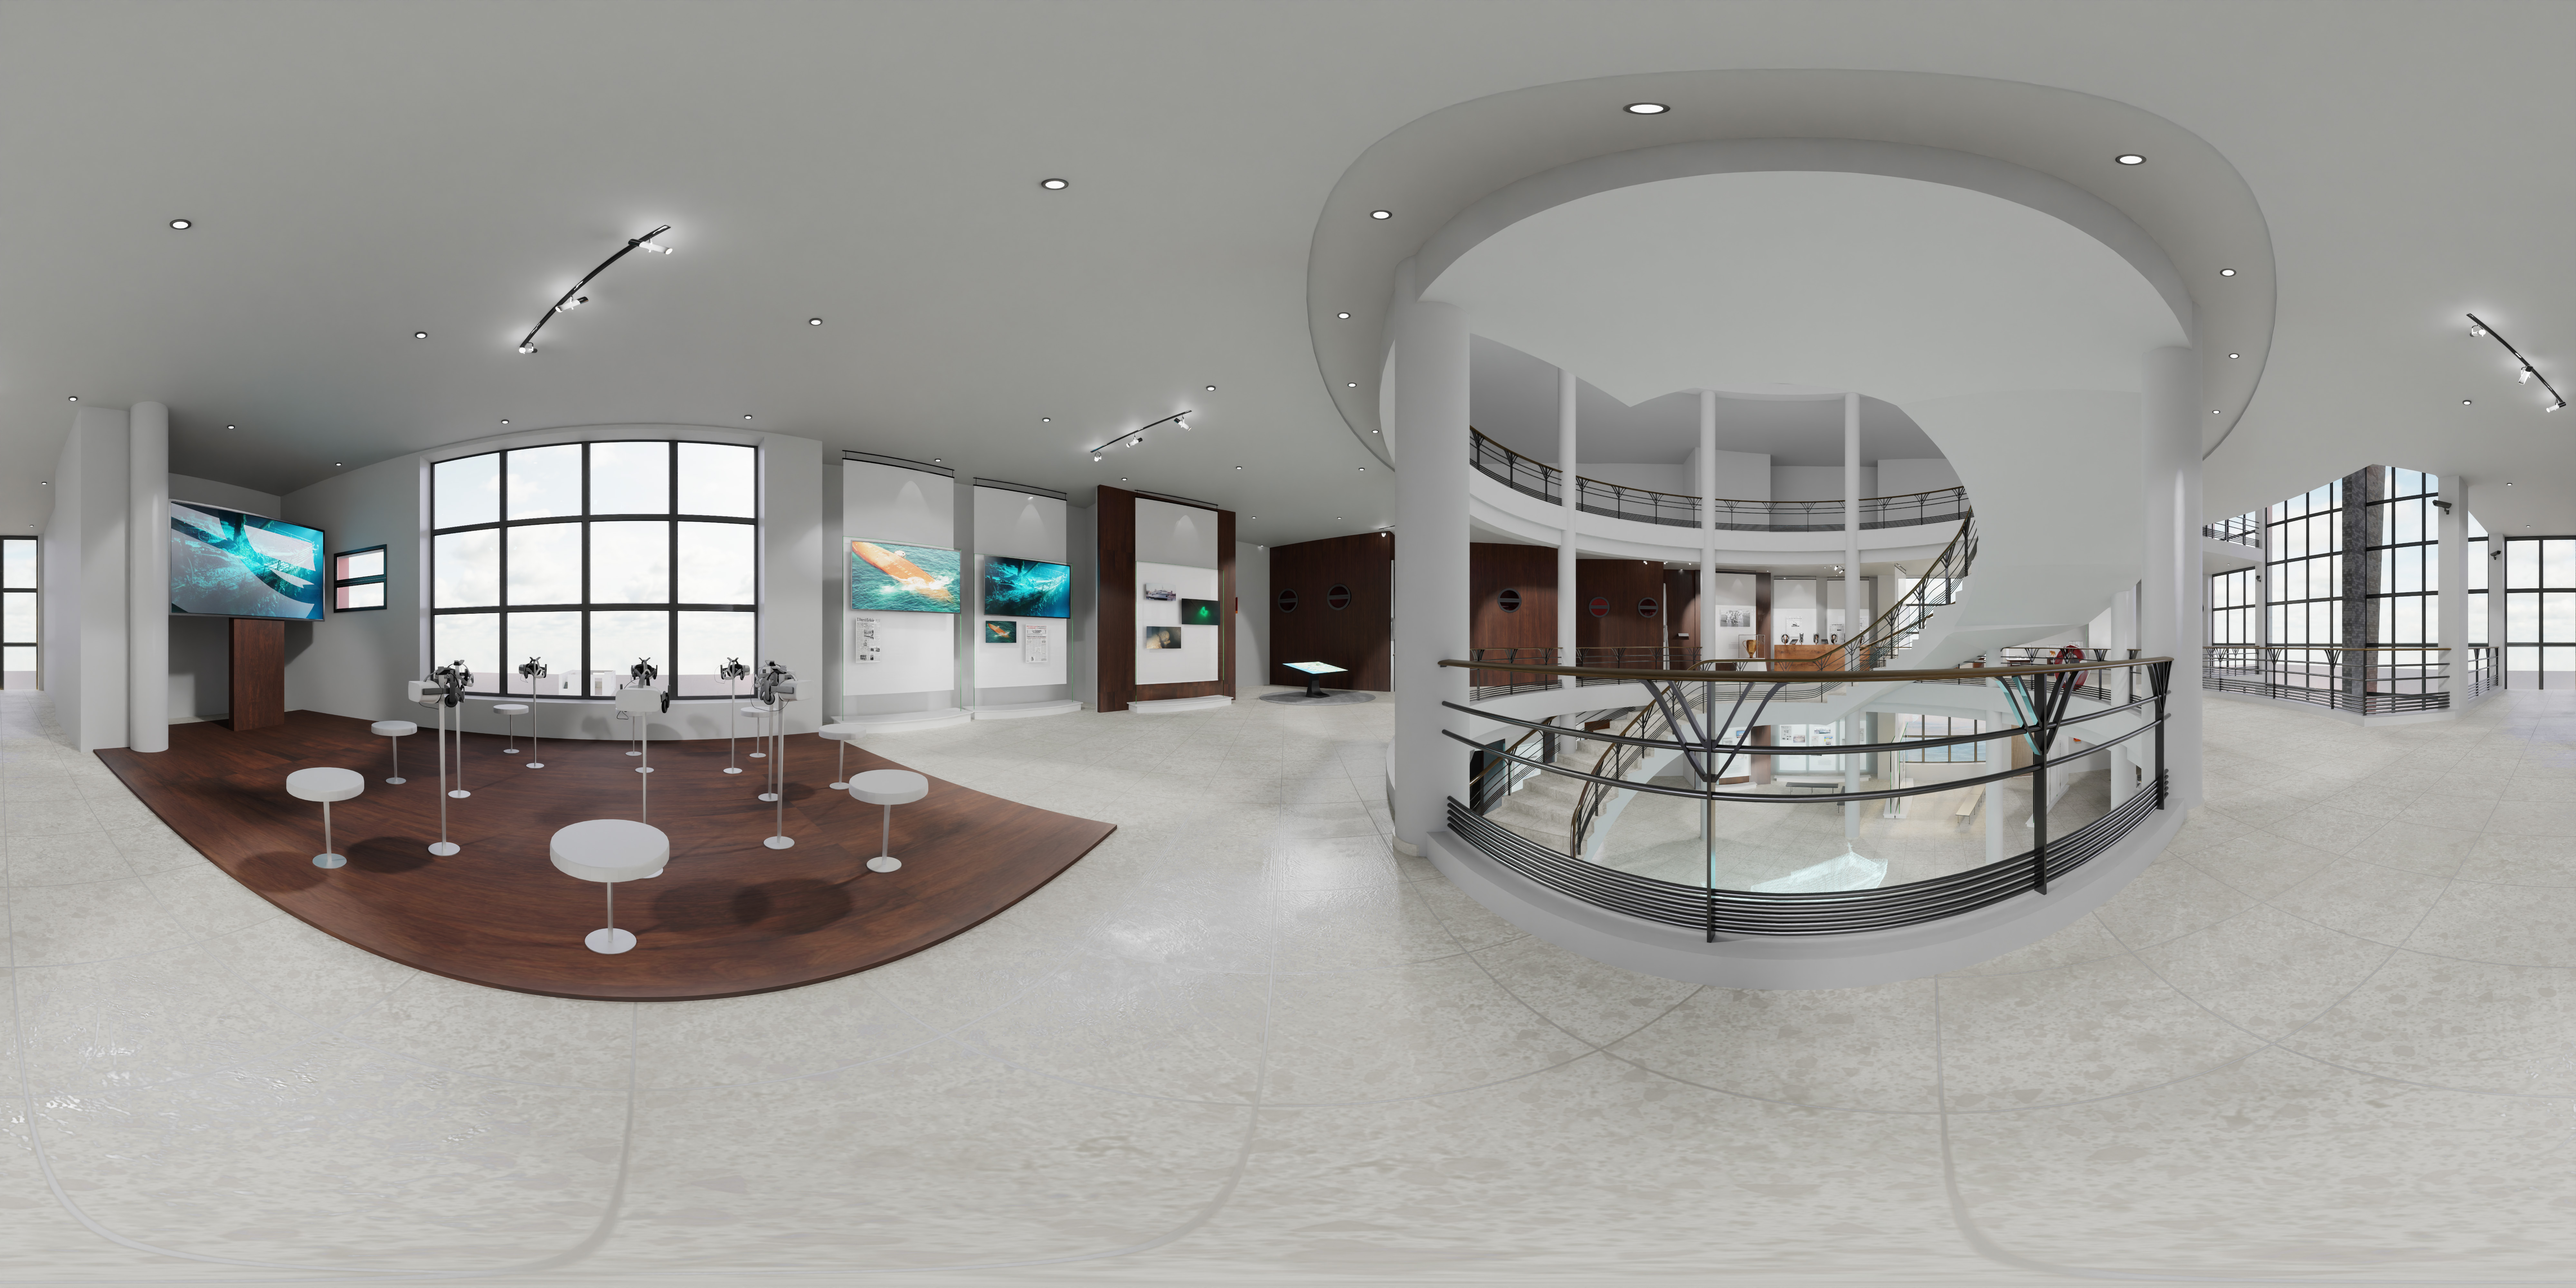
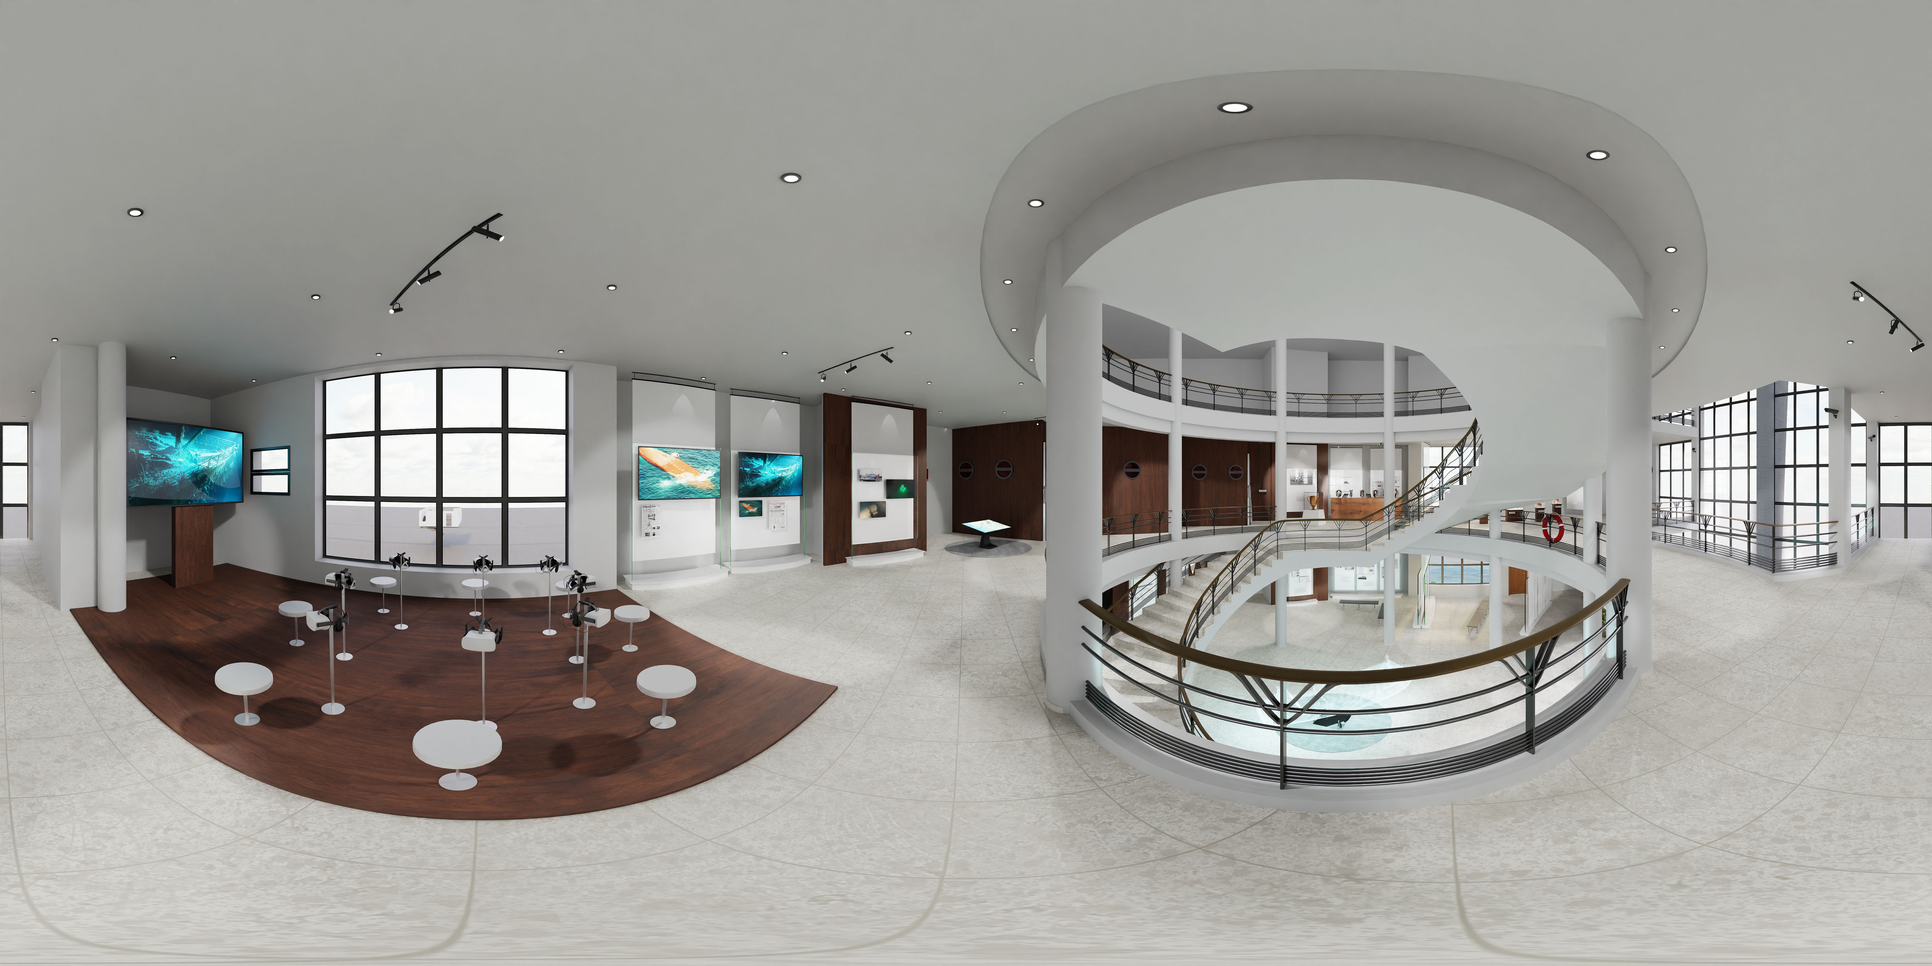
first commit-8

diff --git a/index.html b/index.html
@@ -70,6 +70,7 @@
             <img id="Scene-22" src="./Style/Images/Scene-22.jpg">
             <img id="Scene-23" src="./Style/Images/Scene-23.jpg">
             <img id="Scene-24" src="./Style/Images/Scene-24.jpg">
+            <img id="Scene-25" src="./Style/Images/Scene-25.jpg">
         </a-assets>
 
         <a-entity laser-controls="hand: left"
@@ -92,11 +93,6 @@
                 position="-4.10698 -1.15665 -5.74791" rotation="-81.07639279998713 71.56300156963495 17.62991135617543"
                 material="src: #Arrow-1; transparent:true"
                 the_dote="Name_of_dote: Dote-1  ; Group_to_activate: Group-1 ; The_rotation: 0">
-            </a-plane>
-            <a-plane data-clickable scale='0.9 0.9 0.9' opacity='.5' class="pintings clickable"
-                position="-8.77309 -1.15665 4.0442" rotation="-57.05112653456146 94.80847227588758 -8.138292522038213"
-                material="src: #Arrow-1; transparent:true"
-                the_dote="Name_of_dote: Dote-10  ; Group_to_activate: Group-10 ; The_rotation: 0">
             </a-plane>
 
         </a-entity>
@@ -314,7 +310,7 @@
             </a-plane>
 
             <a-plane data-clickable scale='0.9 0.9 0.9' opacity='.5' class="pintings clickable"
-                position="-1.40609 -1.38102 -5.58956"
+                position="-0.81632 -0.63666 -3.91632"
                 rotation="-87.00020344384473 119.95730877756479 151.33591538569945"
                 material="src: #Arrow-1; transparent:true"
                 the_dote="Name_of_dote: Dote-14; Group_to_activate: Group-14; The_rotation: 0">
@@ -325,16 +321,21 @@
         <a-entity scale="0 0 0" rotation="0 -90 0" class="groups" id="Group-14" visible="false">
 
             <a-plane data-clickable scale='0.9 0.9 0.9' opacity='.5' class="pintings clickable"
-                position="-6.03853 -1.13547 3.73085" rotation="-68.80363682828491 123.14581890746784 150.03587414854763"
+                position="-3.70212 -1.13547 1.95713" rotation="-68.80363682828491 123.14581890746784 150.03587414854763"
                 material="src: #Arrow-1; transparent:true"
                 the_dote="Name_of_dote: Dote-15; Group_to_activate: Group-15; The_rotation: 0">
             </a-plane>
 
+
+
             <a-plane data-clickable scale='0.9 0.9 0.9' opacity='.5' class="pintings clickable"
-                position="0.15379 -0.65092 4.02329" rotation="-88.37472919436357 -157.13482123021856 68.38595059563455"
+                position="0.15379 -0.65092 2.70711" rotation="-88.37472919436357 -157.13482123021856 68.38595059563455"
                 material="src: #Arrow-1; transparent:true"
                 the_dote="Name_of_dote: Dote-13; Group_to_activate: Group-13; The_rotation: 0">
             </a-plane>
+
+
+
 
         </a-entity>
         <!-- Group-15 -->
@@ -345,8 +346,9 @@
                 material="src: #Arrow-1; transparent:true"
                 the_dote="Name_of_dote: Dote-14; Group_to_activate: Group-14; The_rotation: 0">
             </a-plane>
+
             <a-plane data-clickable scale='0.9 0.9 0.9' opacity='.5' class="pintings clickable"
-                position="-3.65896 -0.79042 4.1435" rotation="-79.06359206569256 97.91734127226742 173.48417191427657"
+                position="-2.3292 -0.79042 2.99187" rotation="-79.06359206569256 97.91734127226742 173.48417191427657"
                 material="src: #Arrow-1; transparent:true"
                 the_dote="Name_of_dote: Dote-16; Group_to_activate: Group-16; The_rotation: 0">
             </a-plane>
@@ -356,37 +358,36 @@
         <a-entity scale="0 0 0" rotation="0 -90 0" class="groups" id="Group-16" visible="false">
 
             <a-plane data-clickable scale='0.9 0.9 0.9' opacity='.5' class="pintings clickable"
-                position="4.23613 -0.71372 -4.0924" rotation="-78.8023233111129 -97.73514069341583 8.848760188000433"
+                position="2.58743 -0.71372 -2.683" rotation="-78.8023233111129 -97.73514069341583 8.848760188000433"
                 material="src: #Arrow-1; transparent:true"
                 the_dote="Name_of_dote: Dote-15; Group_to_activate: Group-15; The_rotation: 0">
             </a-plane>
 
+
+
             <a-plane data-clickable scale='0.9 0.9 0.9' opacity='.5' class="pintings clickable"
-                position="-0.59521 -0.7222 5.18695" rotation="-88.37472919436357 -157.13482123021856 68.38595059563455"
+                position="-0.22758 -0.7222 4.21434" rotation="-88.37472919436357 -157.13482123021856 68.38595059563455"
                 material="src: #Arrow-1; transparent:true"
                 the_dote="Name_of_dote: Dote-17; Group_to_activate: Group-17; The_rotation: 0">
             </a-plane>
+
 
         </a-entity>
         <!-- Group-17 -->
         <a-entity scale="0 0 0" rotation="0 -90 0" class="groups" id="Group-17" visible="false">
 
             <a-plane data-clickable scale='0.9 0.9 0.9' opacity='.5' class="pintings clickable"
-                position="0.82881 -0.961 -6.12214" rotation="-78.750184151756 -3.1718943538442375 -85.64515825836033"
+                position="0.720 -0.990 -4.527" rotation="-78.750184151756 -3.1718943538442375 -85.64515825836033"
                 material="src: #Arrow-1; transparent:true"
                 the_dote="Name_of_dote: Dote-16; Group_to_activate: Group-16; The_rotation: 0">
             </a-plane>
 
 
-
             <a-plane data-clickable scale='0.9 0.9 0.9' opacity='.5' class="pintings clickable"
-                position="1.816 -0.752 5.891" rotation="-80.05309017788349 -176.41714286755126 87.71468181437285"
+                position="1.158 -0.430 2.587" rotation="-77.44326742106259 -44.92619367400298 -45.97356052350213"
                 material="src: #Arrow-1; transparent:true"
                 the_dote="Name_of_dote: Dote-18; Group_to_activate: Group-18; The_rotation: 0">
             </a-plane>
-
-
-
 
 
         </a-entity>
@@ -394,18 +395,23 @@
         <a-entity scale="0 0 0" rotation="0 -90 0" class="groups" id="Group-18" visible="false">
 
             <a-plane data-clickable scale='0.9 0.9 0.9' opacity='.5' class="pintings clickable"
-                position="-2.62401 -1.02993 -3.73864" rotation="-88.1896638265363 -145.82578026992636 57.07232597298131"
+                position="-1.2615 -1.08898 -3.61784" rotation="-79.42398251882985 59.56526533959551 -149.76142736467997"
                 material="src: #Arrow-1; transparent:true"
                 the_dote="Name_of_dote: Dote-16; Group_to_activate: Group-16; The_rotation: 0">
             </a-plane>
 
 
 
+
+
+
             <a-plane data-clickable scale='0.9 0.9 0.9' opacity='.5' class="pintings clickable"
-                position="3.68738 -1.08898 4.98172" rotation="-79.0143176953113 -128.74991910164243 40.30299722509237"
+                position="2.78779 -1.08898 2.36988" rotation="-73.88061585093914 -70.4354206288175 -18.619982426161492"
                 material="src: #Arrow-1; transparent:true"
                 the_dote="Name_of_dote: Dote-19; Group_to_activate: Group-19; The_rotation: 0">
             </a-plane>
+
+
 
 
 
@@ -414,7 +420,7 @@
         <a-entity scale="0 0 0" rotation="0 -90 0" class="groups" id="Group-19" visible="false">
 
             <a-plane data-clickable scale='0.9 0.9 0.9' opacity='.5' class="pintings clickable"
-                position="-3.7042 -0.82927 -4.44407" rotation="-77.29200656314805 96.82299188356755 174.6020125725768"
+                position="-2.09985 -0.82927 -2.85459" rotation="-77.29200656314805 96.82299188356755 174.6020125725768"
                 material="src: #Arrow-1; transparent:true"
                 the_dote="Name_of_dote: Dote-18; Group_to_activate: Group-18; The_rotation: 0">
             </a-plane>
@@ -422,7 +428,7 @@
 
 
             <a-plane data-clickable scale='0.9 0.9 0.9' opacity='.5' class="pintings clickable"
-                position="4.38272 -1.58802 3.85553" rotation="-71.17396322674112 -69.66708422554706 -15.091135365950754"
+                position="3.00563 -1.58802 3.04598" rotation="-71.17396322674112 -69.66708422554706 -15.091135365950754"
                 material="src: #Arrow-1; transparent:true"
                 the_dote="Name_of_dote: Dote-20; Group_to_activate: Group-20; The_rotation: 0">
             </a-plane>
@@ -434,24 +440,25 @@
         <a-entity scale="0 0 0" rotation="0 -90 0" class="groups" id="Group-20" visible="false">
 
             <a-plane data-clickable scale='0.9 0.9 0.9' opacity='.5' class="pintings clickable"
-                position="-5.06409 -1.12792 -3.44639" rotation="-72.55822925977719 70.82560488730158 -158.2715694957581"
+                position="-4.19352 -1.63835 -1.9682" rotation="-73.39703947184871 97.78556097938734 173.58214769724395"
                 material="src: #Arrow-1; transparent:true"
                 the_dote="Name_of_dote: Dote-19; Group_to_activate: Group-19; The_rotation: 0">
             </a-plane>
 
 
             <a-plane data-clickable scale='0.9 0.9 0.9' opacity='.5' class="pintings clickable"
-                position="6.22958 -1.12792 -3.76652" rotation="-69.20929094723753 -94.22233645146875 5.207613399944052"
+                position="5.33514 -1.12792 -3.26156" rotation="-69.20929094723753 -94.22233645146875 5.207613399944052"
                 material="src: #Arrow-1; transparent:true"
                 the_dote="Name_of_dote: Dote-21; Group_to_activate: Group-21; The_rotation: 0">
             </a-plane>
+
 
         </a-entity>
         <!-- Group-21 -->
         <a-entity scale="0 0 0" rotation="0 -90 0" class="groups" id="Group-21" visible="false">
 
             <a-plane data-clickable scale='0.9 0.9 0.9' opacity='.5' class="pintings clickable"
-                position="6.97032 -1.24366 -2.05102" rotation="-62.79961209310901 -81.776547225637 -5.800051760109324"
+                position="4.6895 -1.24366 -3.12225" rotation="-62.79961209310901 -81.776547225637 -5.800051760109324"
                 material="src: #Arrow-1; transparent:true"
                 the_dote="Name_of_dote: Dote-22; Group_to_activate: Group-22; The_rotation: 0">
             </a-plane>
@@ -460,12 +467,10 @@
 
 
             <a-plane data-clickable scale='0.9 0.9 0.9' opacity='.5' class="pintings clickable"
-                position="-5.93913 -0.57303 4.6838" rotation="-72.57312616245059 105.41907768391529 164.26871873739242"
+                position="-6.12613 -1.4324 3.93932" rotation="-72.57312616245059 105.41907768391529 164.26871873739242"
                 material="src: #Arrow-1; transparent:true"
                 the_dote="Name_of_dote: Dote-20; Group_to_activate: Group-20; The_rotation: 0">
             </a-plane>
-
-
 
 
         </a-entity>
@@ -473,23 +478,26 @@
         <a-entity scale="0 0 0" rotation="0 -90 0" class="groups" id="Group-22" visible="false">
 
             <a-plane data-clickable scale='0.9 0.9 0.9' opacity='.5' class="pintings clickable"
-                position="-7.31925 -1.24366 2.07568" rotation="-61.46175564147854 82.13464584759376 -171.55616893366135"
+                position="-5.06735 -1.81788 2.07568" rotation="-61.46175564147854 82.13464584759376 -171.55616893366135"
                 material="src: #Arrow-1; transparent:true"
                 the_dote="Name_of_dote: Dote-21; Group_to_activate: Group-21; The_rotation: 0">
             </a-plane>
 
+
+
             <a-plane data-clickable scale='0.9 0.9 0.9' opacity='.5' class="pintings clickable"
-                position="2.38066 -0.87873 -6.16287" rotation="-72.68542589029623 -32.66718868938389 -55.05608749191594"
+                position="1.39921 -0.87873 -5.17556" rotation="-72.68542589029623 -32.6671886893839 -55.05608749191594"
                 material="src: #Arrow-1; transparent:true"
                 the_dote="Name_of_dote: Dote-23; Group_to_activate: Group-23; The_rotation: 0">
             </a-plane>
+
 
         </a-entity>
         <!-- Group-23 -->
         <a-entity scale="0 0 0" rotation="0 -90 0" class="groups" id="Group-23" visible="false">
 
             <a-plane data-clickable scale='0.9 0.9 0.9' opacity='.5' class="pintings clickable"
-                position="-1.40134 -0.57823 5.12235" rotation="-67.26753697953917 155.656590118781 123.80586628745856"
+                position="-1.40134 -1.39686 4.5212" rotation="-75.11476694165093 141.67813879097432 138.53030866452556"
                 material="src: #Arrow-1; transparent:true"
                 the_dote="Name_of_dote: Dote-22; Group_to_activate: Group-22; The_rotation: 0">
             </a-plane>
@@ -497,10 +505,12 @@
 
 
             <a-plane data-clickable scale='0.9 0.9 0.9' opacity='.5' class="pintings clickable"
-                position="-0.93415 0.08654 -5.883" rotation="-73.23317354244129 0.5729577951308232 -89.03592248994454"
+                position="-1.17092 -0.72507 -6.07145"
+                rotation="-73.23317354244129 0.5729577951308232 -89.03592248994454"
                 material="src: #Arrow-1; transparent:true"
                 the_dote="Name_of_dote: Dote-24; Group_to_activate: Group-24; The_rotation: 0">
             </a-plane>
+
 
 
 
@@ -509,17 +519,45 @@
         <a-entity scale="0 0 0" rotation="0 -90 0" class="groups" id="Group-24" visible="false">
 
             <a-plane data-clickable scale='0.9 0.9 0.9' opacity='.5' class="pintings clickable"
-                position="1.06089 -0.24825 5.288" rotation="-74.33267955129735 -147.76466944864904 57.71346574573269"
+                position="-0.49965 -1.01067 3.9866" rotation="-76.62279185843525 170.86804662170923 100.31746147607045"
                 material="src: #Arrow-1; transparent:true"
                 the_dote="Name_of_dote: Dote-23; Group_to_activate: Group-23; The_rotation: 0">
             </a-plane>
+
+
             <a-plane data-clickable scale='0.9 0.9 0.9' opacity='.5' class="pintings clickable"
-                position="-5.29088 0.31481 -3.19758" rotation="-67.13117302429804 81.15603393351032 -177.04338573762922"
+                position="-5.11268 -1.46703 -0.22809"
+                rotation="-67.13117302429804 81.15603393351032 -177.04338573762922"
+                material="src: #Arrow-1; transparent:true"
+                the_dote="Name_of_dote: Dote-25; Group_to_activate: Group-25; The_rotation: 0">
+            </a-plane>
+
+
+
+        </a-entity>
+        <!-- Group-25 -->
+        <a-entity scale="0 0 0" rotation="0 -90 0" class="groups" id="Group-25" visible="false">
+
+            <a-plane data-clickable scale='0.9 0.9 0.9' opacity='.5' class="pintings clickable"
+                position="4.35364 -1.01067 0.32104" rotation="-73.59356399557859 -80.01928566797078 -13.356219162294622"
+                material="src: #Arrow-1; transparent:true"
+                the_dote="Name_of_dote: Dote-24; Group_to_activate: Group-24; The_rotation: 0">
+            </a-plane>
+
+
+
+
+            <a-plane data-clickable scale='0.9 0.9 0.9' opacity='.5' class="pintings clickable"
+                position="-5.11268 -1.46703 -0.22809"
+                rotation="-67.13117302429804 81.15603393351032 -177.04338573762922"
                 material="src: #Arrow-1; transparent:true"
                 the_dote="Name_of_dote: Dote-14; Group_to_activate: Group-14; The_rotation: 0">
             </a-plane>
 
+
+
         </a-entity>
+
         <!-- ############################################################ -->
         <!-- ############################################################ -->
         <!-- ############################################################ -->
@@ -545,7 +583,7 @@
             the_group_to_activate.setAttribute('visible', 'true')
             the_group_to_activate.setAttribute('scale', '1 1 1')
         }
-        setStrat(0)
+        setStrat(25)
         //############################################
         AFRAME.registerComponent('the_dote', {
             schema: { Name_of_dote: { type: 'string', default: '#Name', }, Group_to_activate: { type: 'string', default: '#Position', }, The_rotation: { type: 'string', default: '0', } },
@@ -660,6 +698,10 @@
                             case 'Dote-24':
                                 the_sky.setAttribute('src', '#Scene-24')
                                 break;
+                            case 'Dote-25':
+                                the_sky.setAttribute('src', '#Scene-25')
+                                break;
+
 
                             default:
                                 break;
